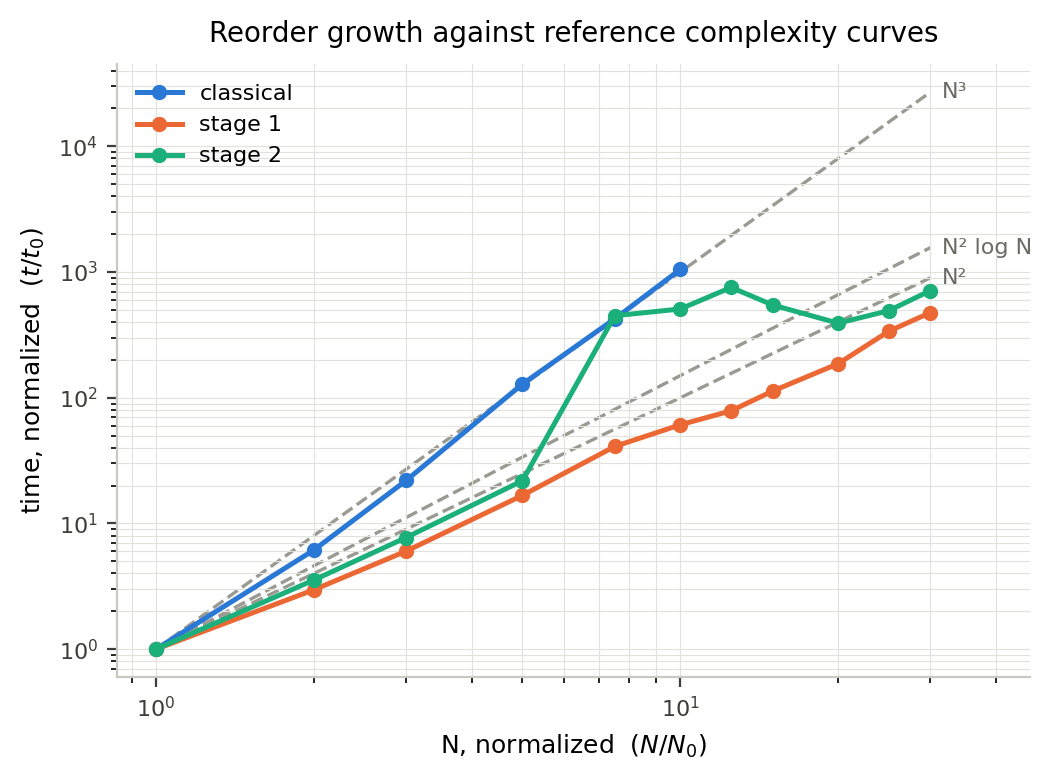
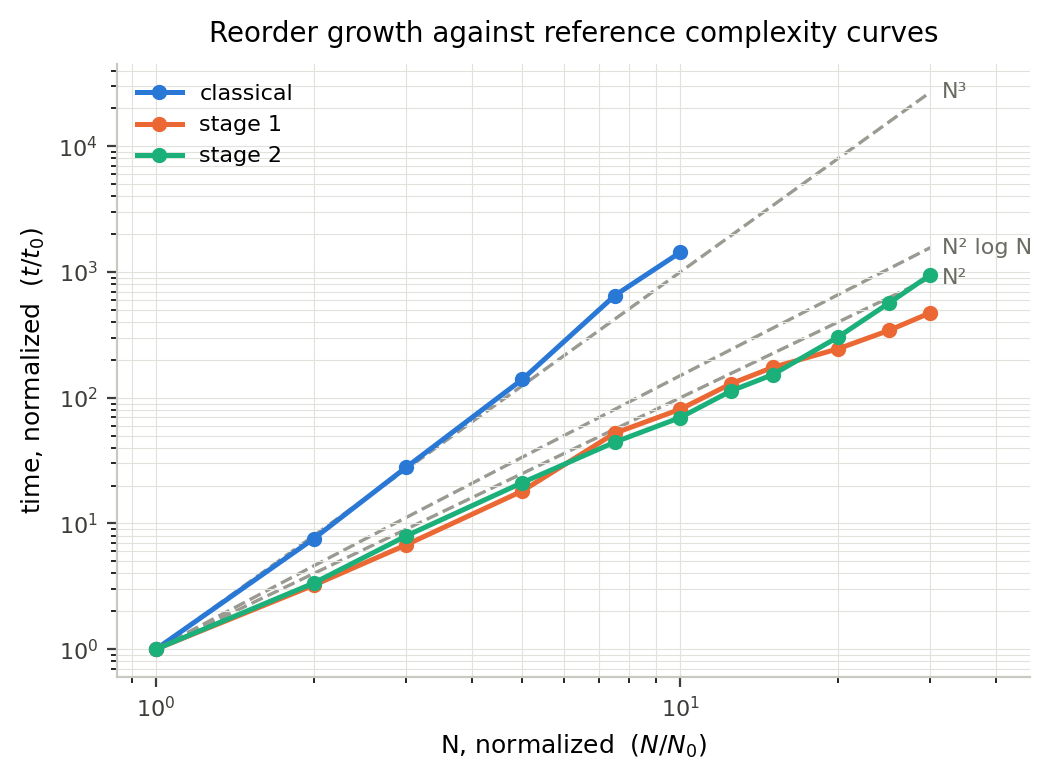
docs(ch3,ch7): re-quote the timing grid from the workstation run (B5b)
Chapter 3's swept timing numbers came from the four-core development laptop while
its memory ceilings came from the workstation. B5 re-took them on one host
(reproduce/outputs/full-14900hx-r2/, ten seeds); this quotes the document from
that run. Every cell below was verified programmatically against the archive CSVs
rather than transcribed by eye.

Table 3.1 -- swept ratios re-quoted: 28.8x -> 25x (256), 398x -> 311x (512),
1,129x -> 673x (1,024). The 4,096-point stage-two figure moves 0.265 -> 0.229 s,
so the comparison against the published stage-one measurement reads ~11x rather
than 9.7x, and the three-arm bracket that corroborates it is 7.4-17.5x.

Table 3.2 -- normalized growth and fitted exponents re-quoted. Classical 3.07 ->
3.20, stage one 1.81 -> 1.86, stage two 2.12 -> 1.97, each stable across five runs
on this host (3.14-3.21, 1.84-1.87, 1.93-1.97).

Two claims retracted, both laptop artifacts:

- The stage-two ~10 ms fixed cost, its flat plateau above N~750, and the band
  where the compiled kernel "buys nothing" do not reproduce. Here stage two is
  monotone (0.4 ms at N=750 to 9.6 ms at N=3,000) and beats stage one by 7.4-17.5x
  at every swept size, including 17.3x inside the band said to collapse. Orderings
  stay bit-identical to the serial reference, so this is timing only. The quadratic
  exponent is better established as a result: the plateau had been contaminating
  the fit that Ch3 already called "right for the wrong reason".
[…]

Changed region(s): [[0.1522, 0.3077, 0.9134, 0.8308]]

diff --git a/research/proposal-defense/build_pdf.py b/research/proposal-defense/build_pdf.py
@@ -27,6 +27,14 @@ import shutil
 import subprocess
 import sys
 
+# This script both reads UTF-8 prose and prints ✓/✗ progress marks. Windows
+# defaults stdout to cp1252, which encodes neither, so the build died in its own
+# progress print *after* assembling the document -- the same failure shape as the
+# harness emitters and the Chapter 5 driver. Every file open here pins UTF-8 for
+# the reading half; this covers the printing half.
+if hasattr(sys.stdout, "reconfigure"):
+    sys.stdout.reconfigure(encoding="utf-8", errors="replace")
+
 HERE = os.path.dirname(os.path.abspath(__file__))
 BUILD = os.path.join(HERE, "build")
 
@@ -120,7 +128,10 @@ def read(rel):
     if not os.path.exists(path):
         print(f"  [warn] missing {rel}")
         return None
-    with open(path) as f:
+    # UTF-8 explicitly: the prose carries em dashes, times signs and Greek, and the
+    # platform default is cp1252 on Windows, which cannot decode them. This build died
+    # on chapters/09-publications.md byte 0x8f before the fix.
+    with open(path, encoding="utf-8") as f:
         return f.read()
 
 
@@ -198,7 +209,7 @@ def assemble():
         print(f"  + {rel}")
     combined = "\n\n\n".join(parts)
     md_path = os.path.join(BUILD, "proposal-combined.md")
-    with open(md_path, "w") as f:
+    with open(md_path, "w", encoding="utf-8") as f:
         f.write(combined)
     print(f"  wrote {md_path}")
 
@@ -259,7 +270,7 @@ def build_with_latex(md_path, pandoc, engine):
     """The proper path: pandoc -> LaTeX -> PDF. Full math support."""
     pdf = os.path.join(BUILD, "proposal.pdf")
     src = os.path.join(BUILD, "proposal-titled.md")
-    with open(md_path) as f:
+    with open(md_path, encoding="utf-8") as f:
         body = f.read()
 
     # Construct title page with department and committee info
@@ -287,7 +298,7 @@ def build_with_latex(md_path, pandoc, engine):
 ```
 """
 
-    with open(src, "w") as f:
+    with open(src, "w", encoding="utf-8") as f:
         f.write(title_page + body)
     prose_dir = os.path.join(HERE, "prose")
     cmd = [pandoc, src, "-o", pdf,
@@ -330,7 +341,7 @@ def build_with_weasyprint(md_path, pandoc):
       <p class="meta">{DEPT.replace(chr(92) * 2, '<br>')}</p>
       <p class="committee">{COMMITTEE}</p>
       <p class="datestr">Dissertation Proposal · Draft</p></div>"""
-    with open(html_path) as f:
+    with open(html_path, encoding="utf-8") as f:
         html = f.read()
     html = html.replace("<body>", "<body>" + title_html, 1)
 
@@ -339,7 +350,7 @@ def build_with_weasyprint(md_path, pandoc):
     # the interim PDF at least shows each formula once. (The real fix is a LaTeX
     # engine -- see main().)
     html = re.sub(r"<annotation\b[^>]*>.*?</annotation>", "", html, flags=re.DOTALL)
-    with open(html_path, "w") as f:      # keep the on-disk HTML in sync with the PDF
+    with open(html_path, "w", encoding="utf-8") as f:      # keep the on-disk HTML in sync with the PDF
         f.write(html)
 
     css = CSS(string="""

diff --git a/research/proposal-defense/prose/03-scalable-structure-discovery-pvat.md b/research/proposal-defense/prose/03-scalable-structure-discovery-pvat.md
@@ -84,13 +84,13 @@ One more result came out of this, and I include it because it is a neat conseque
 
 ## 3.4 Results
 
-*Hardware — and this section currently spans two machines, which is a defect I would rather label than smooth over. The **workstation** is a 32-core 14th-generation Intel i9 with 96 GB of RAM and a laptop-class RTX 4080 (12 GB); it produced the memory results, the large-scale reorders (58,000 and 135,000 points), and the GPU rows. The **development laptop** is a four-core i7-1185G7 with 16 GB under a `powersave` governor; it produced the swept timing grid in Table 3.1. Mixing them is exactly why Goal G4 exists, and the reproduction harness now records host, CPU, RAM, GPU and governor in every archive's `PROVENANCE.txt` so this cannot recur silently. On the workstation, routine runs are held to a self-imposed **64 GB working cap**, so that a large reorder cannot quietly start paging and turn a memory measurement into a disk measurement; where a result deliberately exceeds the cap, the table says so. That distinction matters for reading Table 3.3, which reports both ceilings. Every result labeled "exact" is bit-identical to the serial VAT reference.*
+*Hardware. Every CPU number in this section now comes from one host: a 32-core 14th-generation Intel i9 (i9-14900HX, 32 logical cores) with 96 GB of RAM and a laptop-class RTX 4080 (12 GB), which also produced the memory results, the large-scale reorders (58,000 and 135,000 points) and the GPU rows. The swept timing grid in Tables 3.1 and 3.2 was previously taken on a four-core i7-1185G7 with 16 GB under a `powersave` governor, and the section therefore spanned two machines; it has been re-taken (`reproduce/outputs/full-14900hx-r2/`, ten seeds, all thirteen generators green in one pass). That re-take was not bookkeeping — it removed two claims this chapter had been making, both of which turned out to describe the laptop rather than the code, and they are identified where they appear below. The reproduction harness records host, CPU, RAM, GPU, governor and now the numeric stack (numpy, scipy, scikit-learn and the BLAS build) in every archive's `PROVENANCE.txt`, because a difference that survives all of those is the only kind that can be attributed to the code.* On the workstation, routine runs are held to a self-imposed **64 GB working cap**, so that a large reorder cannot quietly start paging and turn a memory measurement into a disk measurement; where a result deliberately exceeds the cap, the table says so. That distinction matters for reading Table 3.3, which reports both ceilings. Every result labeled "exact" is bit-identical to the serial VAT reference.*
 
 > **Reproduction.** Table 3.1 regenerates from two generators under `reproduce/tables/`: `table_3_1_pvat_scaling.py` times the exact mergeVAT reorder against a self-contained classical $O(N^3)$ reference across a configurable grid of $N$, and `table_3_1_reorder_three_arm.py` separates the three complexity regimes and verifies every arm's ordering is bit-identical. Both are multi-seed and emit Markdown and CSV. Cells marked *pending* are sizes not yet swept. The remaining tables run in the `tribble-cluster` submodule rather than the table harness: Table 3.5 from `experiments/adversarial_eval.py`, Table 3.6 from `experiments/principled_stitch.py`, and Table 3.7 from `experiments/hardening_eval.py`, each writing a findings file under `experiments/findings/`. Table 3.3 is generated by `table_3_2_memory_precision.py`, which pairs exact memory arithmetic with a measured cross-precision ordering check; Table 3.4 has no generator yet, since the GPU rows need a device host. Per-cell provenance is tracked in `reproduce/PROVENANCE_MAP.md`. The one number below that the harness does not produce is the 4,096-point pair, which is carried over from the NAFIPS measurement and is discussed where it appears.
 >
-> **TODO — repeatable performance (board-wide standard):** the numbers in this section are single-machine, some taken on a thermally throttled laptop. Before any of them are cited as scalability *or* stability results they must be reproduced under a fixed protocol — pinned clocks/thermals, multiple seeds, reported error bars, and a datacenter GPU with full-rate FP64. This same standard applies to every performance/scaling claim in the dissertation (Ch 5, Ch 6). Tracked as Goal G4 in Chapter 7.
+> **TODO — repeatable performance (board-wide standard):** the CPU numbers in this section are now single-host, ten-seed, with error bars, and reproduced across independent runs (`reproduce/outputs/full-14900hx-r2/`); the thermally throttled laptop is out of the chapter, and doing that removed two claims rather than confirming them. What remains open is the hardware half of the protocol: pinned clocks and thermals are not yet enforced, and the GPU rows still come from a consumer card whose double-precision throughput is a fraction of its single-precision rate, so §3.3.3 needs a datacenter GPU with full-rate FP64 before it can be cited as a scalability result. This same standard applies to every performance/scaling claim in the dissertation (Ch 5, Ch 6). Tracked as Goal G4 in Chapter 7.
 
-**Scaling.** The published NAFIPS measurement is a 4,096-point problem in which the classical cubic implementation takes 124 seconds and the stage-one priority-queue reorder takes 2.56 — a measured factor of about 48. The harness re-measures the same size against the compiled stage-two kernel and gets 0.265 ± 0.004 s, about 9.7× faster than stage one. That gap is not an anomaly, and it is worth dwelling on because it looks at first like a contradiction: the three-arm decomposition independently measures stage one against stage two at 7.5–9× across its grid, so the published figure and the current code differ by very nearly the amount §3.3.1's second stage predicts. The two numbers are the same result at two points in the method's history, and I report both rather than quietly replacing the published one.
+**Scaling.** The published NAFIPS measurement is a 4,096-point problem in which the classical cubic implementation takes 124 seconds and the stage-one priority-queue reorder takes 2.56 — a measured factor of about 48. The harness re-measures the same size against the compiled stage-two kernel and gets 0.229 ± 0.006 s, about 11× faster than the published stage-one figure. That gap is not an anomaly, and it is worth dwelling on because it looks at first like a contradiction: the three-arm decomposition independently measures stage one against stage two at 7.4–17.5× across its grid, which brackets it, so the published figure and the current code differ by very nearly the amount §3.3.1's second stage predicts. The two numbers are the same result at two points in the method's history, and I report both rather than quietly replacing the published one.
 
 Every ratio above is against a specific baseline, and I want those kept apart rather than chained together. The 48× is stage one against a cubic reference, as published. The harness's ~1,150× at $N = 1{,}024$ is stage two against the same reference implemented in pure Python. The three-arm study's 15–50× is against a *numba-compiled* cubic reference, which makes it the conservative, implementation-neutral figure and the one I would defend under questioning. A single headline speedup would have to pick one of those baselines and hide the other two. All of them are also measured against the cubic implementations that exist in this literature, not against a tuned $O(N^2)$ dense Prim, which would narrow the gap considerably.
 
@@ -100,18 +100,24 @@ So the claim I actually want to rest on is none of those ratios. It is that the 
 
 | N (points) | classical VAT (cubic) | mergeVAT | basis |
 |---:|---:|---:|---|
-| 256 | 1.0× (worst) | **28.8× faster** | harness, 10 seeds, stage two |
-| 512 | 1.0× (worst) | **398× faster** | harness, 10 seeds, stage two |
-| 1,024 | 1.0× (worst) | **1,129× faster** | harness, 10 seeds, stage two |
+| 256 | 1.0× (worst) | **25× faster** *(noise — see below)* | harness, 10 seeds, stage two |
+| 512 | 1.0× (worst) | **311× faster** | harness, 10 seeds, stage two |
+| 1,024 | 1.0× (worst) | **673× faster** | harness, 10 seeds, stage two |
 | 2,048 | above the reference cap | ran; no reference to normalize against | harness, 10 seeds, stage two |
 | 4,096 | above the reference cap | ran; no reference to normalize against | harness, 10 seeds, stage two |
 | 4,096 | 1.0× (worst) | ~48× faster | **published**, NAFIPS, stage one |
 | 58,000 | infeasible on this hardware | ran (~1 min, workstation) | demonstration |
 | 135,000 | infeasible | ran (float32, 96 GB, cap lifted) | demonstration |
 
-**Why this table reports ratios and not seconds.** Every entry above is normalized against the slowest arm in its row, and that is a deliberate reporting standard rather than a presentational choice. The same generator, at the same `tribble-cluster` commit and the same ten seeds, was run three times over the course of a single afternoon; the 1,024-point classical arm came back at 22.2 s, then 31.7 s, then 21.3 s — a spread of nearly 50% — while the ratio between the two arms moved only across 1,146×, 1,116×, and 1,129×, a spread of under 3%. Absolute wall-clock is a property of the host's thermal and scheduling state at the moment of measurement. The ratio between two arms timed in the same pass is a property of the algorithms. Only the second belongs in a document that will be read on other machines, so the chapters quote ratios throughout and the reproduction harness keeps the seconds, with their per-seed spreads, in the companion CSV.
+**Why this table reports ratios and not seconds — and how far that goes.** Every entry above is normalized against the slowest arm in its row, a deliberate reporting standard rather than a presentational choice. On the development laptop the same generator, at the same `tribble-cluster` commit and the same ten seeds, was run three times in one afternoon: the 1,024-point classical arm came back at 22.2 s, then 31.7 s, then 21.3 s — a spread of nearly 50% — while the ratio between the arms moved only across 1,146×, 1,116× and 1,129×, under 3%. That is the case for quoting ratios, and it stands.
 
-Two further caveats about provenance. The swept rows above were taken on the laptop-class development machine rather than the workstation whose memory ceilings Table 3.3 reports, so this section currently spans two hosts; every archive now records host, CPU, RAM, GPU and governor so that cannot recur silently, and re-taking the grid on one pinned host is Goal G4. And the two largest rows are *demonstrations* rather than estimates in the sense of §7.2 — they establish that a problem of that size can be reordered at all, a question with no sampling distribution, and are recorded with hardware and precision instead of an error bar.
+I originally drew a stronger conclusion from it than the evidence supports, and the re-take is what exposed the error. The claim was that absolute wall-clock is a property of the host while the ratio between two arms is a property of the algorithms — so ratios survive a change of machine. **They do not, at least not this pair of arms.** On the workstation three runs put the 1,024-point classical arm at 13.7, 14.2 and 14.5 s, a spread of 6%, and the ratio at 660×, 673× and 700× — but that is 40% away from the laptop's 1,129×. The reason is visible once stated: the classical reference is interpreted Python and mergeVAT is compiled Cython, so a change of host does not scale the two arms by the same factor, and their quotient moves with it. A ratio is invariant to a shared constant factor, and these two arms do not share one.
+
+What survives is the weaker and still useful version: **within a host the ratio is far more stable than the seconds — 6% against 40% here — and across hosts it is more portable than seconds without being invariant.** So the chapters quote ratios, the harness keeps the seconds and their per-seed spreads in the companion CSV, and a ratio quoted from one host should be read as that host's measurement rather than as a property of the algorithms. The exponents of Table 3.2 are the quantity that genuinely is machine-independent, which is the argument for leaning on them rather than on any speedup.
+
+The laptop's ~50% run-to-run swing was also, as it turns out, thermal and specific to that machine: it does not reproduce here, where repeats agree to 6%.
+
+One further caveat about provenance. The two largest rows are *demonstrations* rather than estimates in the sense of §7.2 — they establish that a problem of that size can be reordered at all, a question with no sampling distribution, and are recorded with hardware and precision instead of an error bar.
 
 Two further things about this table. The mergeVAT column below $N = 1{,}024$ is at the edge of what the clock resolves — the 256-point cell has a standard deviation two and a half times its own mean — so the speedup ratios at those sizes are noise and I quote them only to show the grid, not to argue from them. And the classical column is capped at 1,024 by the harness (`REPRO_NAIVE_CAP`) because it is genuinely cubic; the larger rows are mergeVAT-only for that reason, not because mergeVAT is being flattered.
 
@@ -129,29 +135,29 @@ The sweep runs on a two-part grid. Every arm runs the base grid, 100 to 1,000 po
 | N | N (norm.) | classical | stage 1 | stage 2 | $N^2$ | $N^2\log N$ | $N^3$ |
 |---:|---:|---:|---:|---:|---:|---:|---:|
 | 100 | 1.0× | 1.00× | 1.00× | 1.00× | 1.00× | 1.00× | 1.00× |
-| 200 | 2.0× | 6.14× | 2.97× | 3.55× | 4.00× | 4.60× | 8.00× |
-| 300 | 3.0× | 21.97× | 6.02× | 7.73× | 9.00× | 11.15× | 27.00× |
-| 500 | 5.0× | 128.52× | 16.73× | 21.87× | 25.00× | 33.74× | 125.00× |
-| 750 | 7.5× | 424.60× | 41.00× | **449.06×** | 56.25× | 80.86× | 421.88× |
-| 1,000 | 10.0× | 1048.89× | 60.94× | **508.23×** | 100.00× | 150.00× | 1000.00× |
-| 1,250 | 12.5× | — | 78.70× | 754.36× | 156.25× | 241.95× | 1953.12× |
-| 1,500 | 15.0× | — | 112.97× | 546.85× | 225.00× | 357.31× | 3375.00× |
-| 2,000 | 20.0× | — | 186.50× | 391.85× | 400.00× | 660.21× | 8000.00× |
-| 2,500 | 25.0× | — | 338.43× | 493.00× | 625.00× | 1061.86× | 15625.00× |
-| 3,000 | 30.0× | — | 475.94× | 712.32× | 900.00× | 1564.70× | 27000.00× |
-| **fitted exponent** | | **3.07** (6 pts) | **1.81** (11 pts) | **2.12** (11 pts) | 2.00 | ≈2.1 | 3.00 |
+| 200 | 2.0× | 7.58× | 3.23× | 3.36× | 4.00× | 4.60× | 8.00× |
+| 300 | 3.0× | 27.95× | 6.76× | 7.96× | 9.00× | 11.15× | 27.00× |
+| 500 | 5.0× | 140.20× | 18.15× | 21.14× | 25.00× | 33.74× | 125.00× |
+| 750 | 7.5× | 650.33× | 52.25× | 44.34× | 56.25× | 80.86× | 421.88× |
+| 1,000 | 10.0× | 1434.42× | 81.07× | 69.61× | 100.00× | 150.00× | 1000.00× |
+| 1,250 | 12.5× | — | 129.34× | 113.37× | 156.25× | 241.95× | 1953.12× |
+| 1,500 | 15.0× | — | 174.29× | 152.49× | 225.00× | 357.31× | 3375.00× |
+| 2,000 | 20.0× | — | 245.16× | 304.25× | 400.00× | 660.21× | 8000.00× |
+| 2,500 | 25.0× | — | 343.16× | 565.84× | 625.00× | 1061.86× | 15625.00× |
+| 3,000 | 30.0× | — | 474.52× | 952.10× | 900.00× | 1564.70× | 27000.00× |
+| **fitted exponent** | | **3.20** (6 pts) | **1.86** (11 pts) | **1.97** (11 pts) | 2.00 | ≈2.1 | 3.00 |
 
-The exponents come out where they should, and they are stable: across two independent runs of this sweep the classical arm fitted at 3.07 and 3.07, stage one at 1.80 and 1.81, stage two at 2.13 and 2.12. Classical at 3.07 against a theoretical 3 confirms the cubic baseline directly rather than by assumption, which matters because it is the arm every speedup in this chapter is measured against. Stage two at 2.12 confirms the quadratic claim of §3.3.1. Stage one at 1.81 sits a little under 2; the $\log N$ factor is not resolvable over a decade and a half of $N$, so what this establishes is that stage one is quadratic-ish rather than cubic, which is the claim that matters.
+The exponents come out where they should, and they are stable: across five independent runs of this sweep on one host the classical arm fitted between 3.14 and 3.21, stage one between 1.84 and 1.87, and stage two between 1.93 and 1.97. Classical at 3.20 against a theoretical 3 confirms the cubic baseline directly rather than by assumption, which matters because it is the arm every speedup in this chapter is measured against. **Stage two at 1.97 confirms the quadratic claim of §3.3.1 about as cleanly as this method can.** Stage one at 1.86 sits a little under 2; the $\log N$ factor is not resolvable over a decade and a half of $N$, so what this establishes is that stage one is quadratic-ish rather than cubic, which is the claim that matters.
 
-**The stage-two column is not a smooth curve, and the reason turns out to be worth the whole table.** Through $N = 500$ it tracks the quadratic reference closely. Between 500 and 750 it jumps by a factor of twenty, then goes *flat* — 449×, 508×, 754×, 547×, 392×, 493×, 712× — wandering without trend while $N$ quadruples. In absolute terms the arm costs 0.4 ms at $N = 500$ and then sits between 8 and 15 ms everywhere from 750 to 3,000.
+**A previous version of this table said something quite different here, and the correction is instructive enough to keep in view.** Measured on the four-core development laptop, stage two did not track the quadratic reference at all above $N = 500$: it jumped by a factor of twenty between 500 and 750 and then went flat — 449×, 508×, 754×, 547×, 392×, 493×, 712× — sitting between 8 and 15 ms everywhere from 750 to 3,000 while $N$ quadrupled. A cost constant in $N$ is not the algorithm but an overhead, so I reported that stage two acquired a fixed cost of roughly ten milliseconds at $N \approx 750$, that its fitted exponent of 2.12 was therefore "right for the wrong reason", and — the part with teeth — that between roughly 750 and 1,250 its advantage over stage one **collapsed to parity**, so that the compiled kernel §3.3.1 prefers at import time bought nothing across a band of problem sizes. The leading explanation was OpenMP parallel-region setup in the Cython `nogil` path, a threading threshold producing exactly a step-then-plateau signature.
 
-A cost that is constant in $N$ is not the algorithm; it is an overhead. **Stage two acquires a fixed cost of roughly ten milliseconds at $N \approx 750$**, and that cost dominates until the quadratic work finally catches up with it near $N = 3{,}000$. The fitted exponent of 2.12 is therefore right for the wrong reason — it averages a clean quadratic below the threshold against a flat plateau above it.
+**None of that reproduces on the workstation, and the ten milliseconds are not a property of the kernel.** Across five runs here stage two is monotone in $N$ throughout — 0.4 ms at $N = 750$ rising smoothly to 9.6 ms at $N = 3{,}000$, never flat, never non-monotone — and it beats stage one by **7.4× to 17.5× at every size in the grid**, including 17.3× at $N = 1{,}000$ and 17.0× at 1,250, squarely inside the band that was said to collapse. The orderings remain bit-identical to the serial reference at every size, so this is a timing difference and nothing more.
 
-The practical consequence is the part I would not have found without plotting against a reference. Below $N = 750$ stage two beats stage one by five to eight times, which is the advantage §3.3.1 claims for it. Between roughly 750 and 1,250 that advantage **collapses to parity** — the two arms are level within their spreads, and which one wins varies between runs — before stage two recovers and pulls away to 6.7× by $N = 3{,}000$. So the compiled kernel, which §3.3.1 says is preferred at import time, buys nothing at all across a band of problem sizes, and the chapter should not imply otherwise.
+Two things follow, and the second is the reason this paragraph survives rather than being deleted. First, the retraction: **the parity band and the plateau are artifacts of the development laptop, the claim that the compiled kernel "buys nothing across a band of sizes" is withdrawn, and stage two's advantage over stage one is confirmed everywhere in the swept grid.** The quadratic exponent is also better established than before, precisely because the plateau had been contaminating the fit — 1.97 against a theoretical 2, where the laptop gave 2.12. Second, the open question has moved rather than closed: something on that machine cost ten milliseconds above a size threshold, and the OpenMP hypothesis is now the *weaker* candidate, since thread-startup overhead should be at least as visible on thirty-two cores as on four. A four-core `powersave` governor ramping clocks on thread spawn fits the evidence better, and is testable by pinning that host's governor. Chapter 7 carries it in that rescoped form.
 
-I do not yet know what the ten milliseconds are. The leading candidate is parallel-region setup: the stage-two kernel is the Cython `nogil`/OpenMP path, and a threshold that engages threading above a size cutoff would produce exactly this signature — a step, then a plateau while thread startup dominates the arithmetic. A cache boundary or an allocation path would also fit. All three are testable and none is tested, which makes this a bounded engineering item rather than an open research question, and Chapter 7 carries it as one. What the table licenses in the meantime is narrow and worth stating exactly: **the cubic baseline is confirmed, stage two's quadratic exponent is confirmed, and stage two's practical advantage over stage one is confirmed everywhere except a band around $N \approx 10^3$ where it vanishes.**
+The methodological lesson is the one I would rather state than have drawn out of me. The plateau was measured repeatedly and deterministically, on one machine, and I read repeatability as evidence that it was a property of the code. It was not; it was a property of the host, and no number of repeat runs on that host could have distinguished the two. **Determinism across runs says nothing about invariance across machines** — which is exactly why Goal G4 asks for a fixed protocol rather than merely for error bars, and why this chapter's numbers now come from one identified host with its numeric stack recorded.
 
-A word on where the 4,096-point row comes from, since the reproduction harness does not produce it. That pair is the measurement reported in the NAFIPS work, carried over here. The harness caps its own cubic reference at $N \leq 1{,}024$ (`REPRO_NAIVE_CAP`), and lifting the cap to 4,096 is a single flag — but the cubic arm costs roughly sixty-four times as much at four times the size, which is several hours of compute to re-derive a constant factor. That is a poor trade, because the constant factor is not the claim. What this section argues is the *scaling* — that the exponent drops from cubic to quadratic, and that the feasible problem size moves from roughly 5,000 points to over 130,000. The 4,096 row is an illustration of a ratio at one convenient size, not the evidence for that argument. And as Table 3.2 has just shown, neither is the swept grid: it pins the cubic exponent and does not yet pin the quadratic one. The claim this section can defend today is the reachable problem size; the exponent needs the wider grid of Goal G4.
+A word on where the 4,096-point row comes from, since the reproduction harness does not produce it. That pair is the measurement reported in the NAFIPS work, carried over here. The harness caps its own cubic reference at $N \leq 1{,}024$ (`REPRO_NAIVE_CAP`), and lifting the cap to 4,096 is a single flag — but the cubic arm costs roughly sixty-four times as much at four times the size, which is several hours of compute to re-derive a constant factor. That is a poor trade, because the constant factor is not the claim. What this section argues is the *scaling* — that the exponent drops from cubic to quadratic, and that the feasible problem size moves from roughly 5,000 points to over 130,000. The 4,096 row is an illustration of a ratio at one convenient size, not the evidence for that argument. The evidence is Table 3.2, and on the workstation it now pins **both** exponents — cubic at 3.20 and quadratic at 1.97, each stable across five runs. That was not true when the plateau was in the stage-two column, and it is the concrete gain from re-taking the grid on one host: this section can defend the exponent drop as well as the reachable problem size, where previously only the second was safe.
 
 **Implementation, for verification.** The two stages are checkable against the source rather than taken on trust. The stage-two $O(N^2)$ compact-active-set kernel is `_prim_mst_kernel_64` in [`src/tribbleclustering/pcvat.pyx`](https://github.com/fundthmcalculus/clustering/blob/c71171e/src/tribbleclustering/pcvat.pyx#L22-L113) (lines 22–113; the `float32` twin is `_prim_mst_kernel_32` at line 392), whose fused relax-and-select inner loop is the `for i in range(m)` block. The stage-one $O(N^2 \log N)$ priority-queue implementation is `vat_prim_mst` in [`src/tribbleclustering/pvat.py`](https://github.com/fundthmcalculus/clustering/blob/c71171e/src/tribbleclustering/pvat.py#L141-L211) (lines 141–211). The compiled stage-two path is preferred at import time, with stage one as the portable fallback; the two agree bit-for-bit, which is how each validates the other.
 
@@ -228,7 +234,7 @@ The last row is the honest gap, and it is the one that matters most for the clai
 
 What the composition buys is an engine that is exact, parallel, memory-lean, and correct on arbitrary dissimilarities, all at once, with its error confined to exactly the places where single-linkage itself is known to be unreliable. None of the individual pieces — the priority queue, in-place permutation, Borůvka on the GPU, the divide-and-conquer stitch — is new on its own. Bringing them together into one engine that reaches the exact-non-metric-at-scale regime is the contribution, and that regime is unoccupied by the existing fast-VAT literature.
 
-There is work left before this is airtight as a journal result, and I would rather name it than let a committee find it. The timings were taken on a single machine, some of them on a thermally throttled laptop, and they need to be re-run with fixed clocks and error bars across multiple seeds. The GPU story needs a datacenter card with full double-precision throughput to separate the algorithm from the consumer card's penalty. And the non-metric claim, which is the heart of the niche, is so far demonstrated on synthetic non-metric dissimilarities; it needs a real non-coordinate domain — time series under dynamic time warping, or strings under edit distance — to be fully convincing. That last item is a goal for completion in Chapter 7. Finally, I owe the reader a direct head-to-head against eVAT and clusiVAT on identical datasets, which I have not yet run and which is the first comparison a reviewer will want.
+There is work left before this is airtight as a journal result, and I would rather name it than let a committee find it. The CPU timings have been re-taken on one identified host at ten seeds with error bars, and reproduced across independent runs; that exercise retracted a parity band and a fixed-cost plateau that had both been artifacts of the previous machine, which is the best argument I can offer for why the remaining hardware item matters. Clocks and thermals are still not pinned. The GPU story needs a datacenter card with full double-precision throughput to separate the algorithm from the consumer card's penalty. And the non-metric claim, which is the heart of the niche, is so far demonstrated on synthetic non-metric dissimilarities; it needs a real non-coordinate domain — time series under dynamic time warping, or strings under edit distance — to be fully convincing. That last item is a goal for completion in Chapter 7. Finally, I owe the reader a direct head-to-head against eVAT and clusiVAT on identical datasets, which I have not yet run and which is the first comparison a reviewer will want.
 
 ---
 

diff --git a/research/proposal-defense/prose/07-goals-for-completion.md b/research/proposal-defense/prose/07-goals-for-completion.md
@@ -26,9 +26,15 @@ That floor has one deliberate exception, and stating it is cleaner than letting 
 
 G4 also covers the head-to-head against eVAT and clusiVAT that Chapter 3 owes, and a push toward a distributed mergeVAT at half a million points. Three items sit in it beyond the timing protocol, and one of them has since been discharged.
 
-The discharged one is the **complexity exponent**. Chapter 3 previously rested its claim on reachable problem size and treated the cubic-to-quadratic drop as asserted rather than shown, because the timing grid was too coarse to fit an exponent from. Table 3.2 now fits one: classical at 3.07 against a theoretical 3, stage two at 2.12 against 2, stage one at 1.81 where the log factor is not resolvable over the range swept — and all three stable to within 0.01 across independent runs. The exponent is measured, and the chapter says so.
+The discharged one is the **complexity exponent**. Chapter 3 previously rested its claim on reachable problem size and treated the cubic-to-quadratic drop as asserted rather than shown, because the timing grid was too coarse to fit an exponent from. Table 3.2 now fits one, on a single identified host: classical at 3.20 against a theoretical 3, **stage two at 1.97 against 2**, stage one at 1.86 where the log factor is not resolvable over the range swept — all three stable across five independent runs (3.14–3.21, 1.84–1.87, 1.93–1.97). The exponent is measured, and the chapter says so.
 
-What that measurement exposed is the item that replaces it, and it is narrower and more actionable. **Stage two acquires a fixed cost of roughly ten milliseconds at $N \approx 750$** and runs flat from there to 3,000, until the quadratic work catches up. The practical consequence is that the compiled kernel — the one §3.3.1 says is preferred at import time — beats the portable fallback by five to eight times below 750, is level with it between roughly 750 and 1,250, and only recovers its advantage past 1,500. The leading candidate is parallel-region setup in the Cython `nogil`/OpenMP path, which would produce exactly this step-then-plateau signature; a cache boundary or an allocation threshold would also fit. All three are testable and none is tested. If it is thread startup, a size-gated serial path below about 1,500 is the whole fix, which makes this an engineering item rather than a research one.
+What replaced it is where this goal earned its keep, though not in the way I expected. An earlier version of this section reported that **stage two acquired a fixed cost of roughly ten milliseconds at $N \approx 750$** and ran flat to 3,000, so that the compiled kernel — the one §3.3.1 prefers at import time — was level with the portable fallback between roughly 750 and 1,250 and bought nothing across that band. I called it narrower and more actionable than the goal it replaced, and named OpenMP parallel-region setup as the leading candidate.
+
+**Re-taking the grid on the workstation, which is what this goal asks for, retracted all of it.** Across five runs there stage two is monotone in $N$ — 0.4 ms at 750 rising smoothly to 9.6 ms at 3,000 — and beats stage one by 7.4× to 17.5× at every size in the grid, including 17.3× inside the band said to collapse. The plateau, the parity band, and the claim that the compiled kernel buys nothing are properties of the four-core development laptop, not of the kernel; they are withdrawn from Chapter 3. The quadratic exponent is *better* established as a result, since the plateau had been contaminating that fit — 1.97 where the laptop gave 2.12, a figure Chapter 3 had already conceded was "right for the wrong reason".
+
+The item that survives is smaller and sits on the other host: something on that laptop cost ten milliseconds above a size threshold, and the OpenMP explanation is now the weaker candidate, because thread-startup overhead should be at least as visible on thirty-two cores as on four. A four-core `powersave` governor ramping clocks on thread spawn fits better and is testable by pinning that machine's governor. It is worth chasing only because it is a live example of the failure this goal exists to prevent, not because anything in the method depends on it.
+
+That episode is the strongest argument I have for G4 as a goal, and it is worth stating as a general lesson because the shape recurs. The plateau was measured repeatedly, deterministically, with error bars, at ten seeds — everything the seed-count half of this goal asks for — and it was still an artifact, because every one of those runs was on the same machine. **Repeatability establishes that a measurement is not noise; it says nothing about whether it is a property of the code or of the host.** Only a second host distinguishes those, which is why the hardware half of this protocol is not a formality, and why the harness now records the numeric stack — numpy, scipy, scikit-learn and the BLAS build — alongside the CPU and RAM. The same standard has already caught a smaller instance: one arm of Appendix A.4's Table A.2 moves by up to 0.043 in accuracy between hosts at identical code, seeds and feature rankings, and it is the ill-conditioned arm that moves.
 
 The second item is the **matrix-free reorder**, which §3.3.2 had described as built. It is not: the package's only matrix-free implementation does not produce the VAT ordering at all, and Table 3.3 reports that as a negative result. Nothing in Chapter 3 depends on it — the in-place scheme at single precision reaches about 155,000 points on the host, which covers every result reported — but writing and verifying it is what would carry the method past that, so it belongs here rather than in the completed work. G4 does *not* include a dense-Prim baseline: a code review established that the compiled kernel already is one.
 

diff --git a/research/proposal-defense/prose/appendix.md b/research/proposal-defense/prose/appendix.md
@@ -156,7 +156,7 @@ tribble-fis issues #49 (the regression) and #50 (`top_p` semantics).*
 - **The reproduction harness.** `reproduce/` is the single entry point, and the goal is that reproducing a result takes one command rather than archaeology. Each table in the proposal has a generator under `reproduce/tables/` that runs the models over a fixed seed set and writes both Markdown and CSV into `reproduce/outputs/`, reporting mean ± standard deviation. Anything it cannot run — a missing optional baseline, an absent dataset, hardware it does not have — is reported as unavailable and printed with the reason, never silently replaced by an estimate. `reproduce/manifest.py` enumerates every experiment across the four repositories with its command, environment, datasets, and hardware tier; a full orchestrator that walks that manifest is the next step.
 - **Drivers.** Beyond the table generators, each original result has a named script — the `FuzzySystemsExperiments/*` benchmarks for Chapter 4, `tribble-fis/tribble-tree/demo_*.py` for Chapter 6, `gated-minimax-selection/run_all.py` for Chapter 5, and the `ClusteringExperiments/` harnesses for Chapter 3.
 - **Environments.** The submodules carry their own locked environments, so the generators are invoked through them (for example, `uv run --project tribble-fis python reproduce/tables/table_6_1_model_family.py`). Dataset preparation is automatic where licensing permits — the Concrete set is built from the spreadsheet in the repo if the CSV is absent.
-- **Hardware.** Development ran on a 32-core 14th-generation Intel i9 workstation with **96 GB** of RAM and a laptop-class RTX 4080 (12 GB, reduced double-precision throughput). Routine runs are held to a self-imposed **64 GB working cap**, so that a large reorder cannot start paging and turn a memory measurement into a disk measurement; Chapter 3's Table 3.3 reports the ceiling under both the cap and the physical limit, and the one result that deliberately exceeds the cap (the 135,000-point reorder, 72.9 GB at float32) is labeled as such. Final performance numbers are to be re-taken under the fixed protocol of Goal G4 — pinned clocks and thermals, multiple seeds, error bars, and a datacenter GPU with full double-precision throughput.
+- **Hardware.** Development ran on a 32-core 14th-generation Intel i9 workstation with **96 GB** of RAM and a laptop-class RTX 4080 (12 GB, reduced double-precision throughput). Routine runs are held to a self-imposed **64 GB working cap**, so that a large reorder cannot start paging and turn a memory measurement into a disk measurement; Chapter 3's Table 3.3 reports the ceiling under both the cap and the physical limit, and the one result that deliberately exceeds the cap (the 135,000-point reorder, 72.9 GB at float32) is labeled as such. Chapter 3's CPU timings all come from this host as of the run of record `reproduce/outputs/full-14900hx-r2/` (ten seeds, thirteen generators green in one pass); an earlier draft's swept timing grid came from a four-core i7-1185G7 development laptop, and consolidating onto one host retracted two claims rather than confirming them — see §3.4 and Goal G4. What remains outstanding from the G4 protocol is the hardware half: clocks and thermals are not pinned, and the GPU rows still come from a consumer card with reduced double-precision throughput. Every archive records host, CPU, cores, RAM, GPU, governor and the numeric stack (numpy, scipy, scikit-learn, BLAS build), because a measurement that survives a change in all of those is the only kind attributable to the code.
 - **Estimates versus demonstrations.** These are held to different standards, deliberately, and Chapter 7's Goal G4 states the rule. Every accuracy figure and every comparative timing ratio is an *estimate*: ten seeds minimum, reported with a spread. The large-scale reorders are *demonstrations* — they establish that a problem of that size can be processed at all, which is a question without a sampling distribution — and are recorded with their hardware, precision, and memory footprint instead of an error bar. Capability and accuracy are both established on the small and mid-size sets, where ground truth exists to score against; the large runs exist to show the same code reaches that scale.
 - **Datasets, and what a third party can actually obtain.** This matters more than it usually does, because the datasets are not uniformly available. Concrete, PhiUSIIL, RT-IOT2022, BETH, and the shuttle set are public and a reader can reproduce those results directly. The 135,000-row psychiatric-evaluation set used for the memory results in Chapter 3 is **not** public and cannot be redistributed; its feature names were anonymized before I ever saw them, which is why Chapter 3 treats it purely as a scaling exercise and draws no conclusion from any individual feature. The consequence for reproducibility should be stated plainly: that specific memory measurement is not independently reproducible, and the fix is to re-take it on a public dataset of comparable size rather than to ask anyone to take it on trust.
 - **Two implementations, cross-validating.** The reorder exists in two forms — the stage-one priority-queue path (`pvat.py`) and the stage-two compact-active-set Cython kernel (`pcvat.pyx`) — and they are required to produce bit-identical orderings. That equality is itself a test: each path validates the other, and the test suite asserts it against the serial reference rather than against permutation-invariant summaries. Chapter 3 §3.3.2 records why that distinction matters, since an earlier bug survived precisely because the tests only checked invariant quantities.
